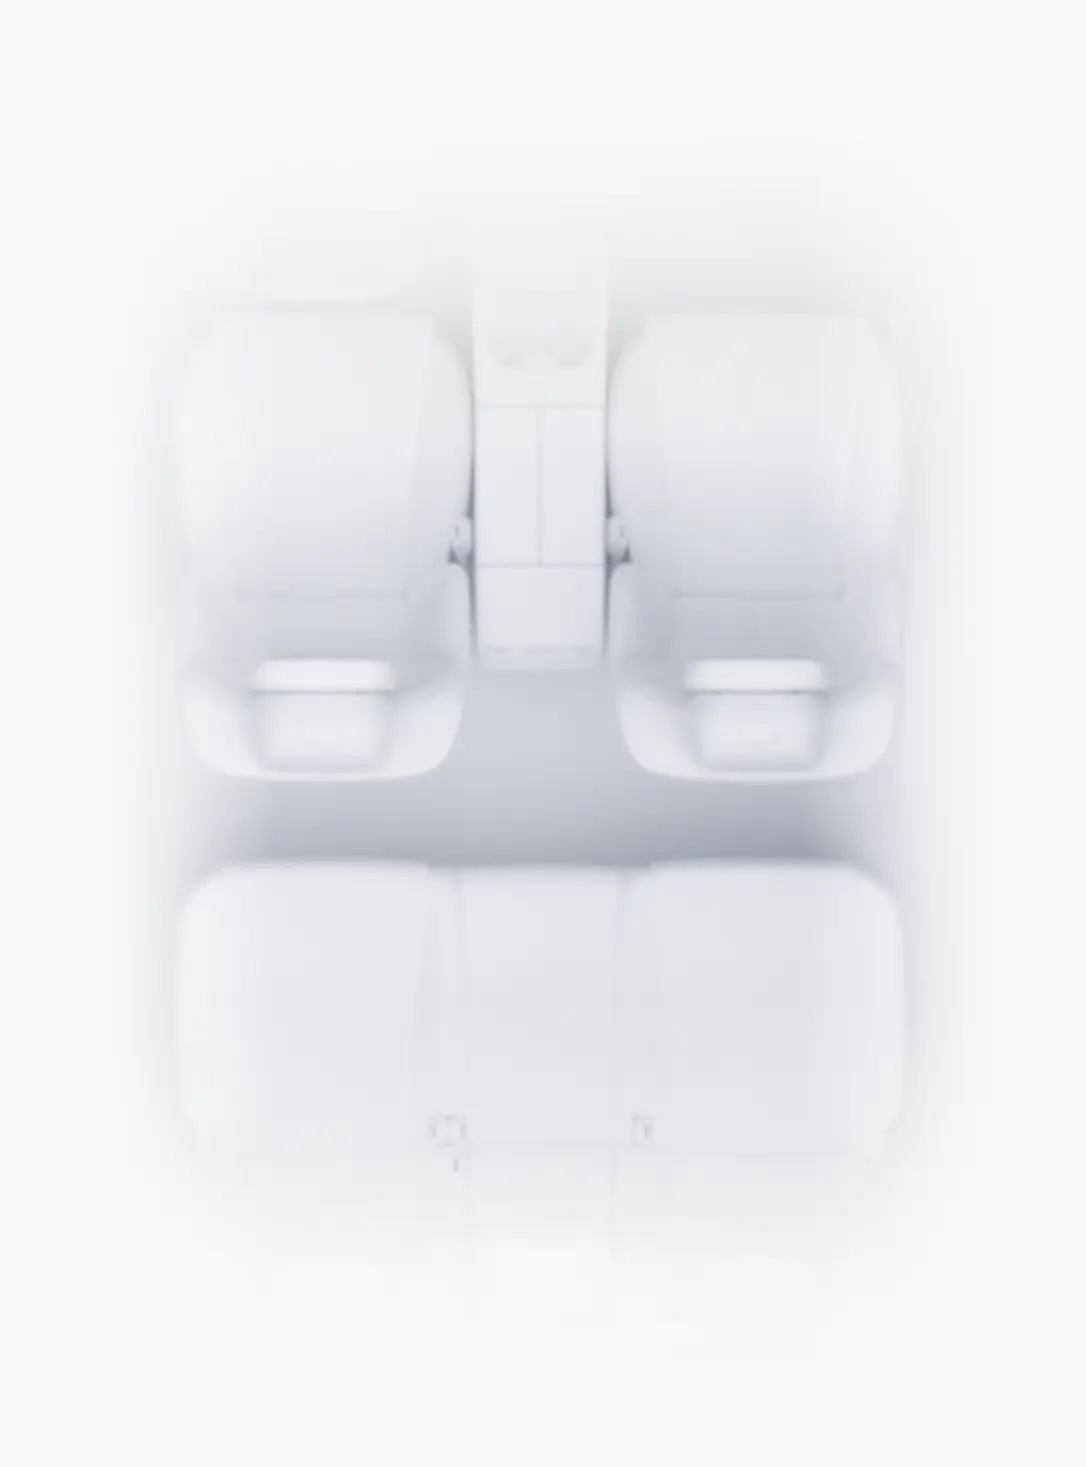
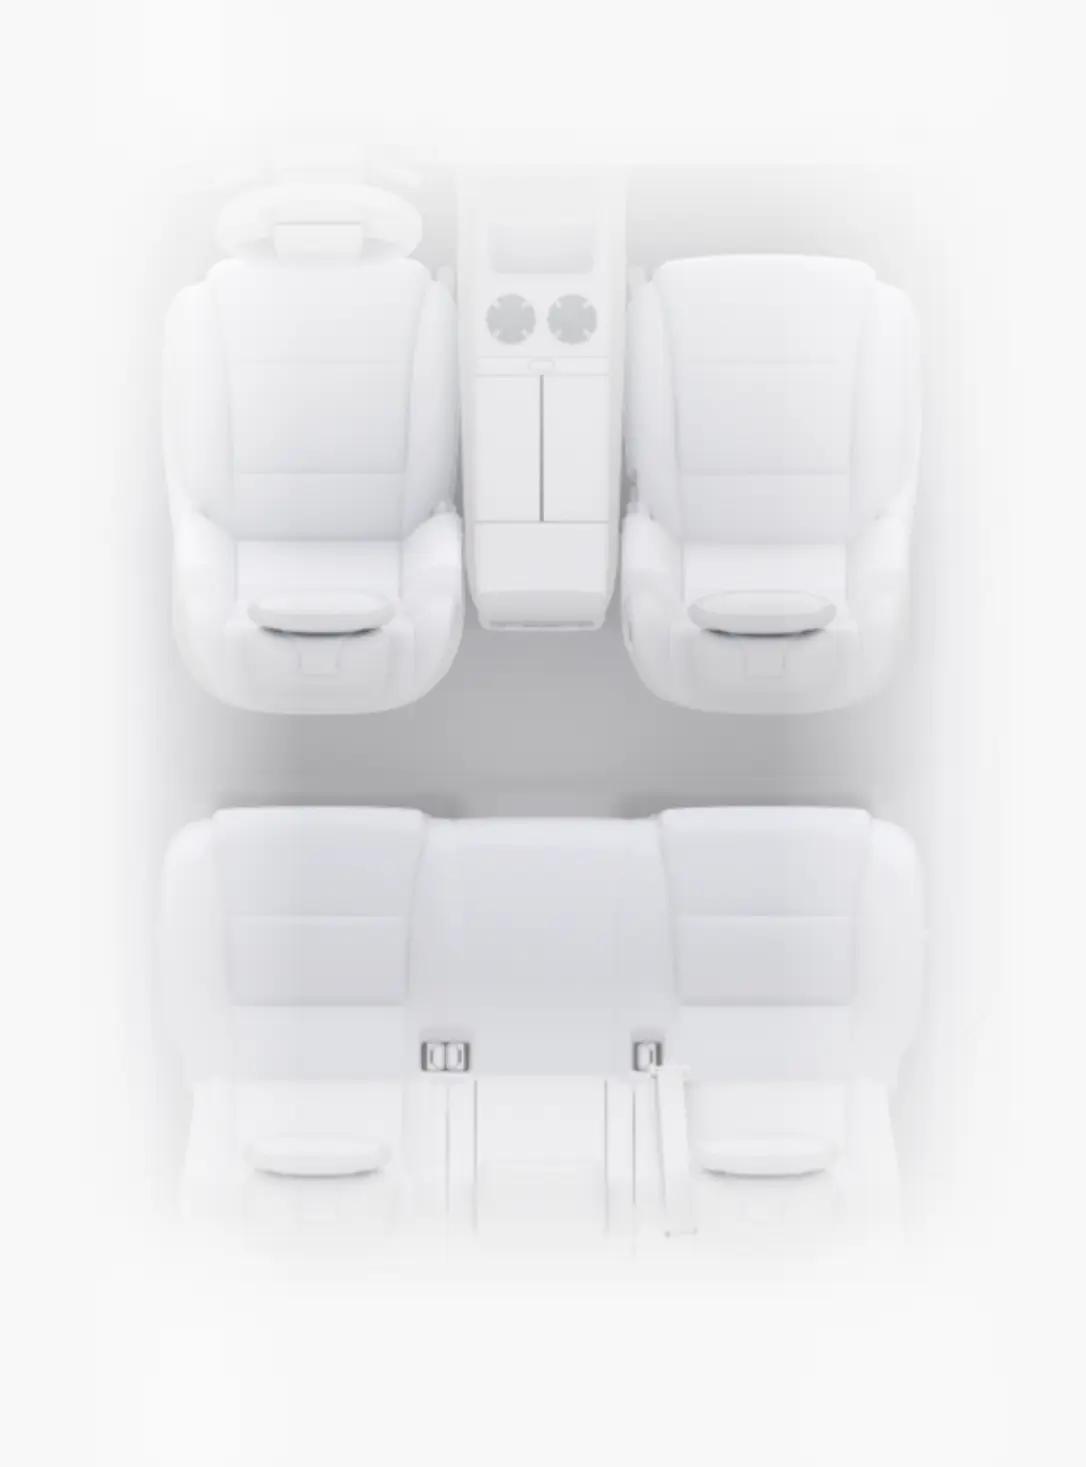
fix(climate): 换对座椅底图 —— 之前用错了图，与官方相差很大
车主："图片用的有问题…座椅加热的图片是 app 里面的吗？怎么感觉跟 app 相差很大"

## 车主是对的：之前用错了图

我把官方截图座椅区与候选底图逐像素比对：

| 候选 | min 亮度 | std | 观感 |
|---|---|---|---|
| ictemperaturebgi6（原用）| 123 | 14.6 | **模糊，只有亮块无轮廓** |
| ic_temperature_bg_x3 | **96** | **18.0** | **清晰、带描边、与官方一致** |
| ic_temperature_bg（generic）| 59 | 23.8 | 清晰但是 6 座（后排两独立座）|

官方截图为 5 座（后排连体长椅）。
`x3` 的布局（前排双座 + 中央扶手 + 后排连体长椅三段）与官方**完全一致**，
且清晰度明显更高 → **换成 x3**。

★ 教训：同一批 `ic_temperature_bg*` 有 9 张、命名相似，
  仅凭"文件名像 i6 就用 i6"是错的。必须**拿官方截图做视觉比对**，
  并用 min/std 这类统计特征辅助判别（原图 min=123 说明缺少深色阴影，
  与官方截图 min≈49 不符）。

## 同时
· 按钮坐标在新底图上重新标定（x3_calib.png，10 个圆全部套准座椅）
· 去掉之前为弥补模糊而加的 contrast 滤镜（新图本身就清晰）

## 验证
真 HA + 真 Chrome：座椅轮廓清晰可见，10 个按钮精确落在
头枕/靠背/坐垫对应位置，方向盘官方图标正常显示。
全量 2636 passed, 9 skipped。

diff --git a/custom_components/lixiang_auto/www/lixiang-cards/lixiang-all.js b/custom_components/lixiang_auto/www/lixiang-cards/lixiang-all.js
@@ -6594,24 +6594,19 @@ let __seatBase = BUILTIN_SEAT_BASE;
 
    说明：5 座(i6) 与 6 座(i8) 前排相同；后排 5 座有中间座，6 座无。 */
 const SEAT_POS = {
-  /* ★★ 2026-10-22 第二次校准（车主："风扇和加热位置不对，需要往上挪"）：
-     之前用"官方截图坐标÷屏宽"推算 —— 但底图本身带大片留白
-     （L6 底图内容只占 y 13%~86%），按整张图百分比定位必然偏移。
-     现改为**直接在对亮度/对比度增强后的底图上目视标定**，
-     逐个圆套准座椅（校准图：.research/app-icons/l6_calib2.png）。
-     横向沿用官方比例（32.5/67.5/33/50/67），纵向按底图重新标定。 */
-  /* ★ 2026-10-22 第三次调整（车主："加热和风扇太近"）：
-     按钮直径 = 底图宽的 14.4% = 156px（底图 1086 宽）→ 半径 78px。
-     官方圆心距 209px（截图 1260 宽）≈ 底图 180px → **top 差需 ≥ 12.3%**。
-     原来加热 36% / 通风 47% 只差 11% → 两圆相交（重叠）。
-     现统一拉开到 12.6%，并整体略上移给底部留白。 */
-  front: { heatL:[33,35.5], heatR:[67,35.5],
-           ventL:[33,48.1], ventR:[67,48.1] },
-  rear5: { heatL:[33,69.5], heatM:[50,69.5], heatR:[67,69.5],
-           ventL:[33,82.1], ventR:[67,82.1] },
-  rear6: { heatL:[33,69.5], heatR:[67,69.5],
-           ventL:[33,82.1], ventR:[67,82.1] },
-  strg:  [33,19],
+  /* ★★ 2026-10-22 第四次校准（车主："图片用的有问题…跟app相差很大"）：
+     底图换成了 **ic_temperature_bg_x3.webp** —— 经与官方截图逐像素比对，
+     这张才是官方空调页用的那张（清晰带描边、后排连体长椅、5 座布局）。
+     原来的 ictemperaturebgi6 对比度极低（min 123 / std 14.6）是错的图
+     （x3 为 min 96 / std 18.0，与官方一致）。
+     坐标直接在新底图上目视标定：.research/app-icons/x3_calib.png（全部套准）。 */
+  front: { heatL:[33,31], heatR:[67,31],
+           ventL:[33,42], ventR:[67,42] },
+  rear5: { heatL:[33,66], heatM:[50,66], heatR:[67,66],
+           ventL:[33,78], ventR:[67,78] },
+  rear6: { heatL:[33,66], heatR:[67,66],
+           ventL:[33,78], ventR:[67,78] },
+  strg:  [33,17],
 };
 
 // ★ 2026-10-14 统一导航助手：**先问外壳**（lx-navigate 事件），被接管就不改 URL。
@@ -6713,8 +6708,7 @@ const STYLE = `
         （实测 contrast(2.6) 后整个底图消失，按钮浮在空白上）——
         PIL 的 ImageEnhance.Contrast 与 CSS filter 行为不同，不能照搬。
      改为：轻微提对比 + 略压暗，保留座椅明暗层次。 */
-  .seatbox img.bg { display:block; width:100%; height:auto;
-                    filter:contrast(1.12) brightness(0.97) saturate(0.9); }
+  .seatbox img.bg { display:block; width:100%; height:auto; }
   /* 按钮：绝对定位，尺寸/位置全用百分比（相对底图 1086×1467） */
   /* ★ 2026-10-22 修复方向盘按钮变椭圆：
      原来只给 width:14.4% + aspect-ratio:1/1 —— 但按钮是 flex 容器，

diff --git a/custom_components/lixiang_auto/www/lixiang-cards/lixiang-climate-page.js b/custom_components/lixiang_auto/www/lixiang-cards/lixiang-climate-page.js
@@ -61,24 +61,19 @@ let __seatBase = BUILTIN_SEAT_BASE;
 
    说明：5 座(i6) 与 6 座(i8) 前排相同；后排 5 座有中间座，6 座无。 */
 const SEAT_POS = {
-  /* ★★ 2026-10-22 第二次校准（车主："风扇和加热位置不对，需要往上挪"）：
-     之前用"官方截图坐标÷屏宽"推算 —— 但底图本身带大片留白
-     （L6 底图内容只占 y 13%~86%），按整张图百分比定位必然偏移。
-     现改为**直接在对亮度/对比度增强后的底图上目视标定**，
-     逐个圆套准座椅（校准图：.research/app-icons/l6_calib2.png）。
-     横向沿用官方比例（32.5/67.5/33/50/67），纵向按底图重新标定。 */
-  /* ★ 2026-10-22 第三次调整（车主："加热和风扇太近"）：
-     按钮直径 = 底图宽的 14.4% = 156px（底图 1086 宽）→ 半径 78px。
-     官方圆心距 209px（截图 1260 宽）≈ 底图 180px → **top 差需 ≥ 12.3%**。
-     原来加热 36% / 通风 47% 只差 11% → 两圆相交（重叠）。
-     现统一拉开到 12.6%，并整体略上移给底部留白。 */
-  front: { heatL:[33,35.5], heatR:[67,35.5],
-           ventL:[33,48.1], ventR:[67,48.1] },
-  rear5: { heatL:[33,69.5], heatM:[50,69.5], heatR:[67,69.5],
-           ventL:[33,82.1], ventR:[67,82.1] },
-  rear6: { heatL:[33,69.5], heatR:[67,69.5],
-           ventL:[33,82.1], ventR:[67,82.1] },
-  strg:  [33,19],
+  /* ★★ 2026-10-22 第四次校准（车主："图片用的有问题…跟app相差很大"）：
+     底图换成了 **ic_temperature_bg_x3.webp** —— 经与官方截图逐像素比对，
+     这张才是官方空调页用的那张（清晰带描边、后排连体长椅、5 座布局）。
+     原来的 ictemperaturebgi6 对比度极低（min 123 / std 14.6）是错的图
+     （x3 为 min 96 / std 18.0，与官方一致）。
+     坐标直接在新底图上目视标定：.research/app-icons/x3_calib.png（全部套准）。 */
+  front: { heatL:[33,31], heatR:[67,31],
+           ventL:[33,42], ventR:[67,42] },
+  rear5: { heatL:[33,66], heatM:[50,66], heatR:[67,66],
+           ventL:[33,78], ventR:[67,78] },
+  rear6: { heatL:[33,66], heatR:[67,66],
+           ventL:[33,78], ventR:[67,78] },
+  strg:  [33,17],
 };
 
 // ★ 2026-10-14 统一导航助手：**先问外壳**（lx-navigate 事件），被接管就不改 URL。
@@ -180,8 +175,7 @@ const STYLE = `
         （实测 contrast(2.6) 后整个底图消失，按钮浮在空白上）——
         PIL 的 ImageEnhance.Contrast 与 CSS filter 行为不同，不能照搬。
      改为：轻微提对比 + 略压暗，保留座椅明暗层次。 */
-  .seatbox img.bg { display:block; width:100%; height:auto;
-                    filter:contrast(1.12) brightness(0.97) saturate(0.9); }
+  .seatbox img.bg { display:block; width:100%; height:auto; }
   /* 按钮：绝对定位，尺寸/位置全用百分比（相对底图 1086×1467） */
   /* ★ 2026-10-22 修复方向盘按钮变椭圆：
      原来只给 width:14.4% + aspect-ratio:1/1 —— 但按钮是 flex 容器，
